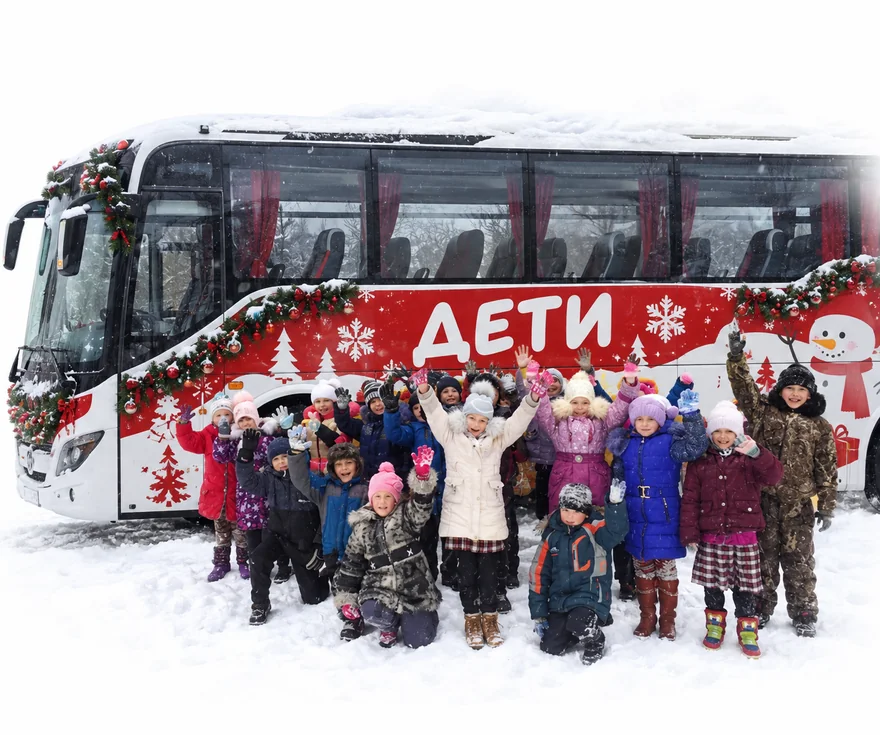
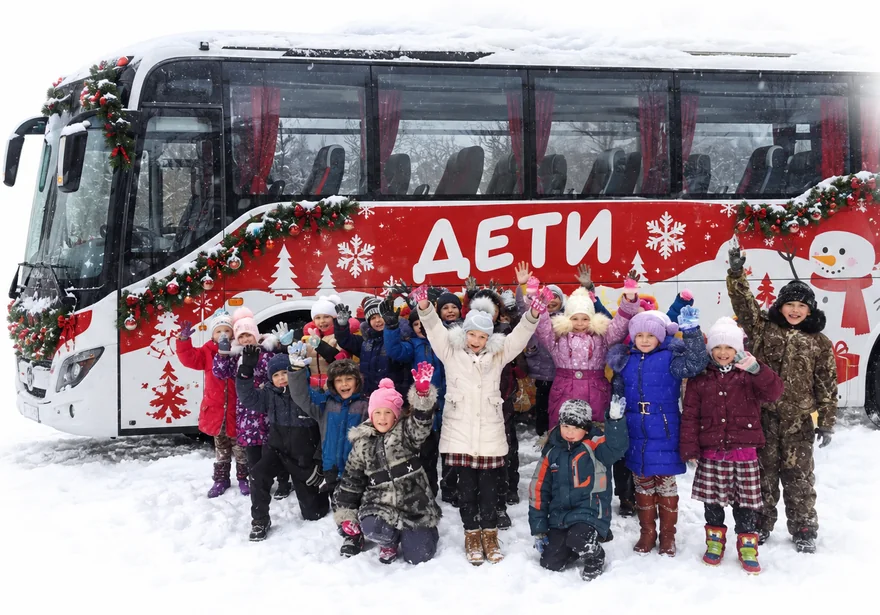
Экран 16: «(от 20 детей)» в заголовке, меньше воздуха сверху, кнопка заявки
Три просьбы Серёги: подзаголовок ушёл в третью строку заголовка (надзаголовок
убран - он повторял его слово в слово), воздух сверху на компьютере срезан
(поле экрана меньше вдвое, у фотографии обрезано пустое белое поле сверху
и снизу), под списком встала прозрачная кнопка «Оставить заявку» - с бортиком
и тенью, по размеру как кнопка экрана цен.

diff --git a/v2.html b/v2.html
@@ -4128,7 +4128,7 @@ html.zs-lock .nav{margin-right:var(--zs-sbw,0px)}
 .gb{
   position:relative; z-index:28; overflow:hidden;
   background:#fff;
-  padding:clamp(52px,5.2vw,104px) 0 clamp(56px,5.8vw,112px);
+  padding:clamp(24px,2.2vw,44px) 0 clamp(56px,5.8vw,112px);
   --gb-bleed: calc((100vw - min(94vw,1462px))/2 + clamp(16px,3vw,47.6px));
 }
 .gb-glow{position:absolute; inset:0; z-index:1; pointer-events:none; overflow:hidden}
@@ -4142,17 +4142,22 @@ html.zs-lock .nav{margin-right:var(--zs-sbw,0px)}
   gap:clamp(24px,2.8vw,52px); align-items:center}
 
 /* ---------- левая колонка ---------- */
-.gb-eyebrow{margin:0 0 clamp(12px,1.3vw,15.3px);
-  font-family:"Golos Text",Arial,sans-serif; font-size:clamp(9.68px,.86vw,11.05px);
-  font-weight:600; letter-spacing:.24em; text-transform:uppercase; color:#4E5D82}
 /* Заголовок тот же, что на экране цен, только по левому краю и на ступень
-   мельче: справа стоит фотография, и во всю ширину он бы её задавил. */
+   мельче: справа стоит фотография, и во всю ширину он бы её задавил.
+   Надзаголовка на этом экране нет: «(от 20 детей)» стоит третьей строкой
+   самого заголовка, как на боевом сайте (просьба Серёги 10.09.2026), и
+   надзаголовок повторял бы его слово в слово. */
 .gb-t{margin:0 0 clamp(12px,1.2vw,18px);
   font-family:"Blogger Sans","Golos Text",Arial,sans-serif; font-weight:700;
   font-size:clamp(24px,3.1vw,52px); line-height:1.07; letter-spacing:.005em;
   text-transform:uppercase; text-wrap:balance}
 .gb-blue{color:#083182}
 .gb-red{color:#8C1B12}
+/* Уточнение «(от 20 детей)» - часть заголовка, но не равная ему по весу:
+   кегль в долях (em), поэтому оно едет вместе с заголовком на любой ширине
+   и его не надо править отдельно. */
+.gb-sub{display:inline-block; margin-top:.22em; font-size:.55em;
+  letter-spacing:.01em; color:#4E5D82}
 .gb-lead{margin:0; max-width:48ch;
   font-family:"Golos Text",Arial,sans-serif; font-size:clamp(14.5px,1.12vw,17.4px);
   line-height:1.5; color:#3F4F76}
@@ -4181,6 +4186,48 @@ html.zs-lock .nav{margin-right:var(--zs-sbw,0px)}
 .gb-tx{font-family:"Golos Text",Arial,sans-serif; font-size:clamp(14.5px,1.18vw,18.6px);
   line-height:1.45; color:#3F4F76}
 .gb-tx b{font-weight:700; color:#0B2A6B}
+
+/* ---------- кнопка ----------
+   ПРОЗРАЧНАЯ, НО С БОРТИКОМ И ТЕНЬЮ - прямая просьба Серёги 10.09.2026
+   («прозрачную жёлтую кнопку с бортиком и тенью, по размеру как в ценах»).
+   Это сознательное отступление от стандарта: там у прозрачной кнопки бортика
+   нет и не было → sayt-nn/standart-knopok.md, отступление записано туда же.
+
+   ОБВОДКУ И БОРТИК ПЕРЕЧИСЛЯТЬ ОДНИМ СПИСКОМ. Обводка у прозрачной сделана
+   внутренней тенью, а box-shadow заменяет список целиком: напишешь один
+   бортик - обводка пропадёт. И :hover, и :active переписывать следом, иначе
+   на наведении вернётся общее правило без бортика, а кнопка перестанет
+   съезжать вниз при нажатии.
+
+   ЦВЕТ ТЁМНОГО ЗОЛОТА, а не светлого: экран белый, и светлое золото на нём
+   не видно ни на солнце, ни на проекторе - то же правило, что у прозрачных
+   кнопок на остальных светлых экранах. */
+.gb-send{margin-top:clamp(22px,2.2vw,34px)}
+.gb .zs-btn--ghost{
+  color:#8A6111;
+  box-shadow:inset 0 0 0 2px rgba(160,116,32,.75),
+             0 4px 0 #C99A2E,
+             0 12px 18px -6px rgba(120,86,20,.26),
+             0 0 30px 4px rgba(245,158,11,.2);
+}
+.gb .zs-btn--ghost:hover{
+  color:#3A2705; background:rgba(227,179,78,.16); transform:none; filter:none;
+  box-shadow:inset 0 0 0 2px rgba(160,116,32,1),
+             0 4px 0 #B8871F,
+             0 14px 22px -6px rgba(120,86,20,.32),
+             0 0 44px 8px rgba(245,158,11,.3);
+}
+.gb .zs-btn--ghost:active{
+  transform:translateY(2px); background:rgba(227,179,78,.2);
+  box-shadow:inset 0 0 0 2px rgba(160,116,32,1),
+             0 2px 0 #B8871F,
+             0 6px 10px -4px rgba(120,86,20,.28);
+}
+/* Ширина - как у кнопки экрана цен: на телефоне во всю ширину бланка,
+   от 768 по длине надписи. Меняешь одну - меняй обе, иначе две кнопки
+   подряд перестанут быть одной кнопкой. */
+.gb-send .zs-btn{width:min(100%,480px)}
+@media (min-width:768px){ .gb-send .zs-btn{width:auto} }
 
 /* ---------- фотография ----------
    Слева у кадра мягкий уход в прозрачность: там снег светлее белого поля
@@ -5665,7 +5712,7 @@ html.zs-lock .nav{margin-right:var(--zs-sbw,0px)}
      групп от 20 детей») и business/core/sales-objections.md. МЕНЯЕШЬ УСЛОВИЯ -
      правь сначала там, а сюда переноси: сайт тут не источник, а витрина.
 
-     У КАРТИНКИ МЕТКА ВЕРСИИ `?v=1`. Имя файла останется прежним, а кадр
+     У КАРТИНКИ МЕТКА ВЕРСИИ `?v=2`. Имя файла останется прежним, а кадр
      Серёга ещё может поменять - без метки браузер покажет старый из кеша.
      Меняешь фотографию - поднимай число сразу у обоих файлов.
 
@@ -5686,8 +5733,7 @@ html.zs-lock .nav{margin-right:var(--zs-sbw,0px)}
     <div class="gb-grid">
 
       <div class="gb-text">
-        <p class="gb-eyebrow">Организованная группа &middot; от 20 детей</p>
-        <h2 class="gb-t" id="gbT"><span class="gb-blue">Условия и бонусы</span><br><span class="gb-red">для групп</span></h2>
+        <h2 class="gb-t" id="gbT"><span class="gb-blue">Условия и бонусы</span><br><span class="gb-red">для групп</span><br><span class="gb-sub">(от 20 детей)</span></h2>
         <p class="gb-lead">Мы всегда можем предложить альтернативные условия под ваш бюджет:
           по количеству детей и не только. Всё обсуждаемо&nbsp;- звоните!</p>
 
@@ -5713,12 +5759,18 @@ html.zs-lock .nav{margin-right:var(--zs-sbw,0px)}
             <span class="gb-tx"><b>Скидка 5%</b> детям участников СВО, инвалидам и многодетным</span>
           </li>
         </ul>
+
+        <div class="gb-send">
+          <button class="zs-btn zs-btn--ghost" type="button" data-zs="экран бонусов - оставить заявку"
+                  data-zs-sub="Перезвоним в течение 30 минут, подберём дату и посчитаем цену для вашей группы со всеми бонусами.">
+            <span class="zs-t">Оставить заявку</span></button>
+        </div>
       </div>
 
       <div class="gb-photo">
         <picture>
-          <source media="(max-width:767px)" srcset="gb-bus-mob.webp?v=1">
-          <img src="gb-bus.webp?v=1" width="1373" height="1146" loading="lazy" decoding="async"
+          <source media="(max-width:767px)" srcset="gb-bus-mob.webp?v=2">
+          <img src="gb-bus.webp?v=2" width="1373" height="960" loading="lazy" decoding="async"
                alt="Украшенный автобус с надписью «Дети» и группа школьников рядом с ним на снегу">
         </picture>
       </div>
